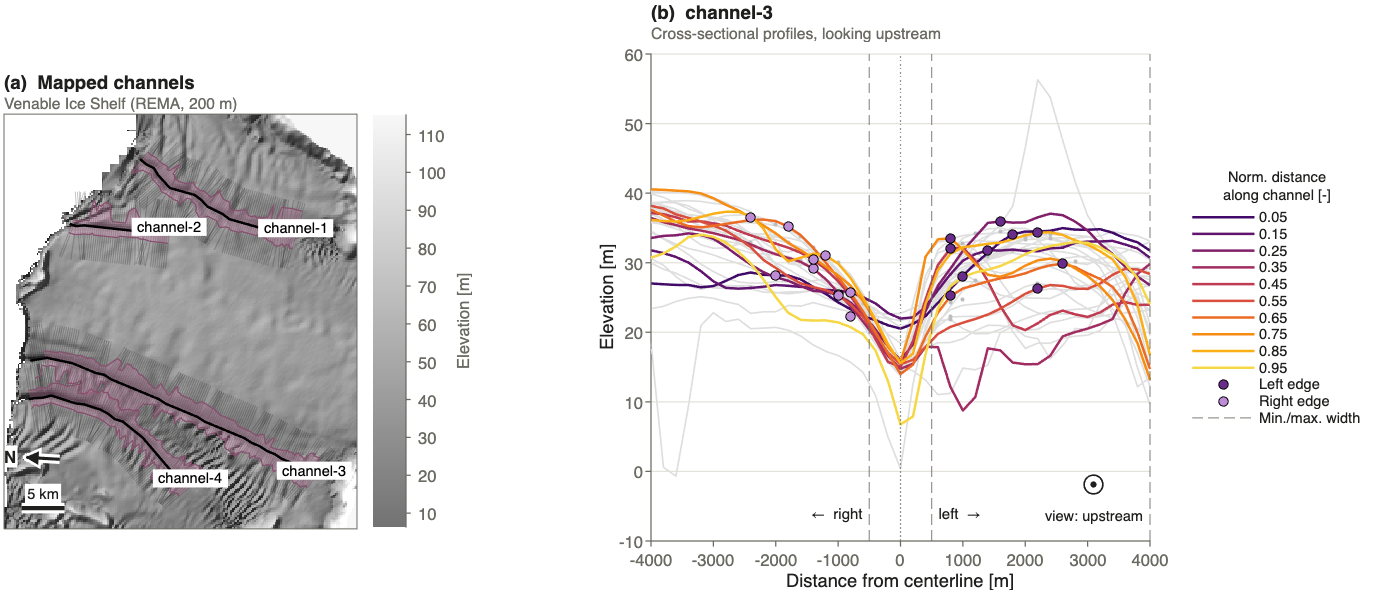
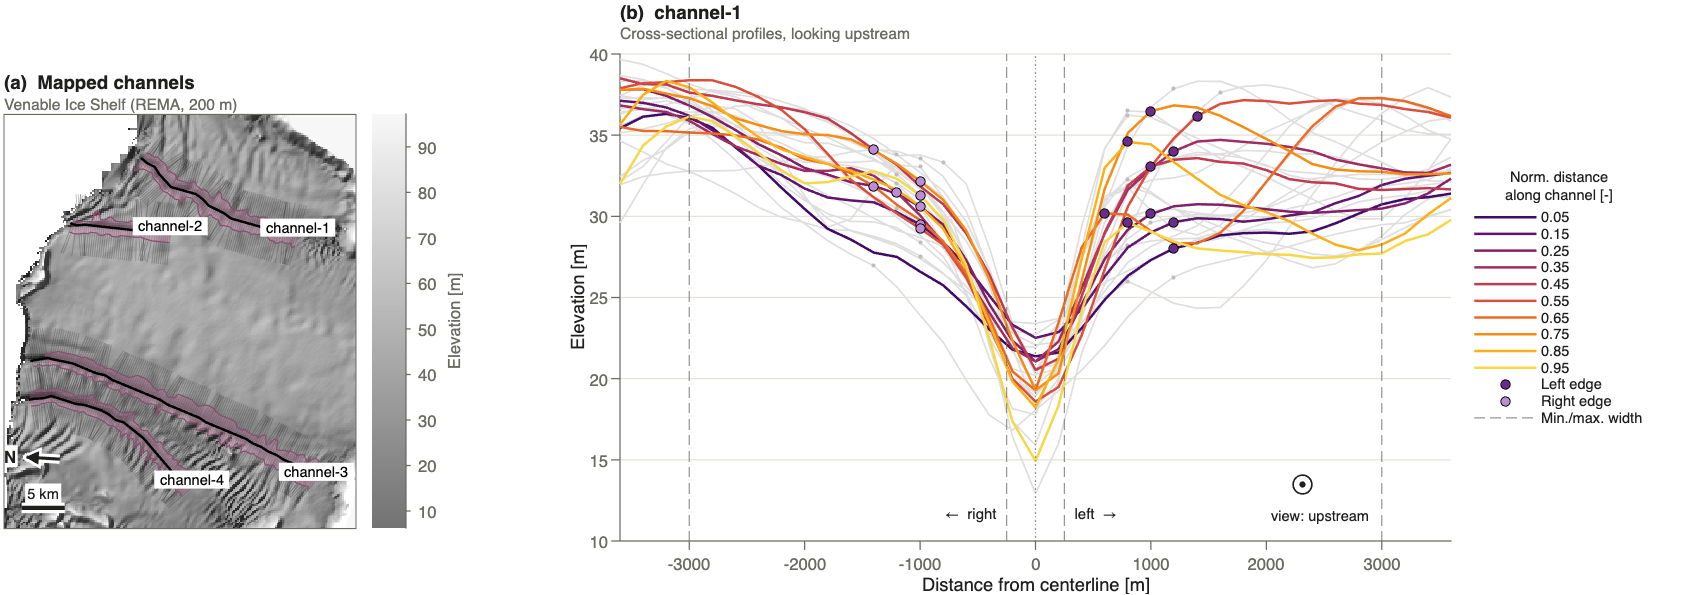
update README figure

diff --git a/config.m b/config.m
@@ -88,7 +88,7 @@ max_recursions = 10;                    % max. no. of centerline search attempts
 %  see Sub-Ice publication for details and recommendations
 
 % channel cross sectional profile parameters
-prof_length   = 8000;                   % length of cross sectional profiles [m]
+prof_length   = 7000;                   % length of cross sectional profiles [m]
 prof_interval = 250;                    % spacing between profiles along centerline [m] (0 = one profile per centerline search segment)
 
 % channel edge parameters
